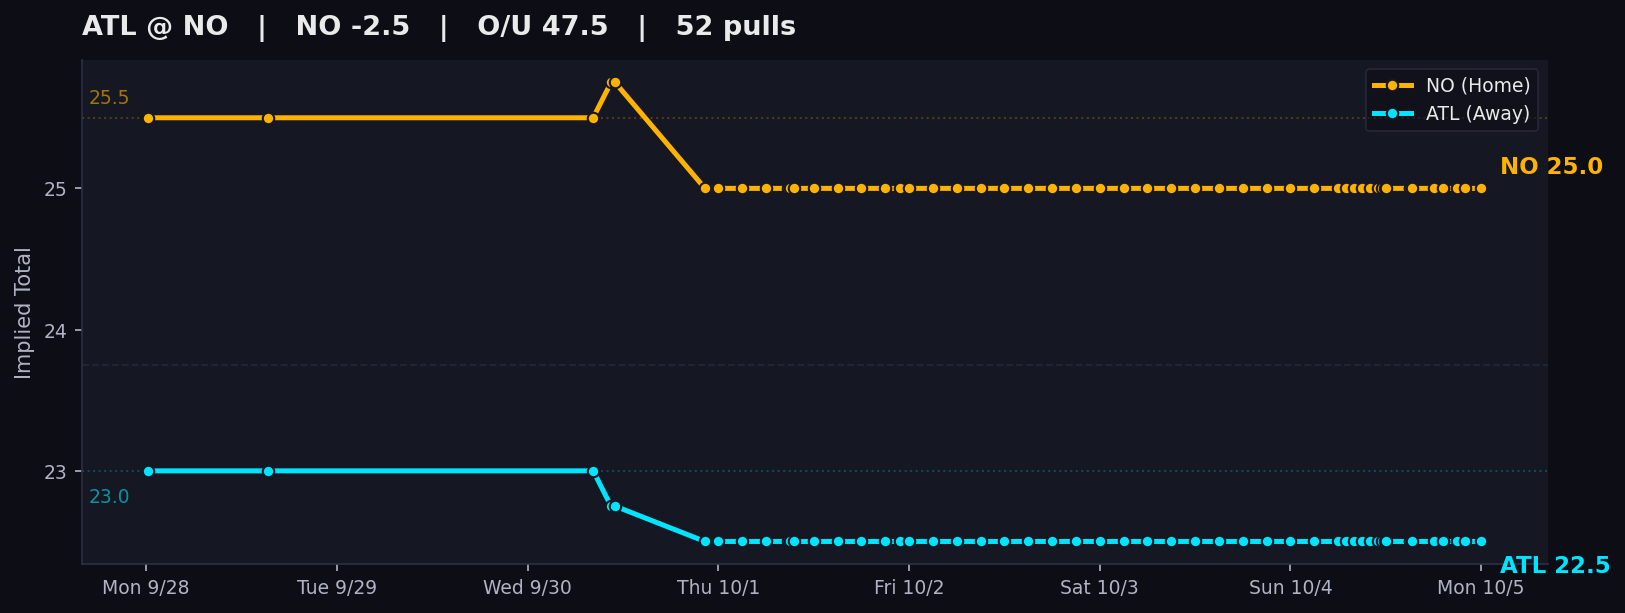
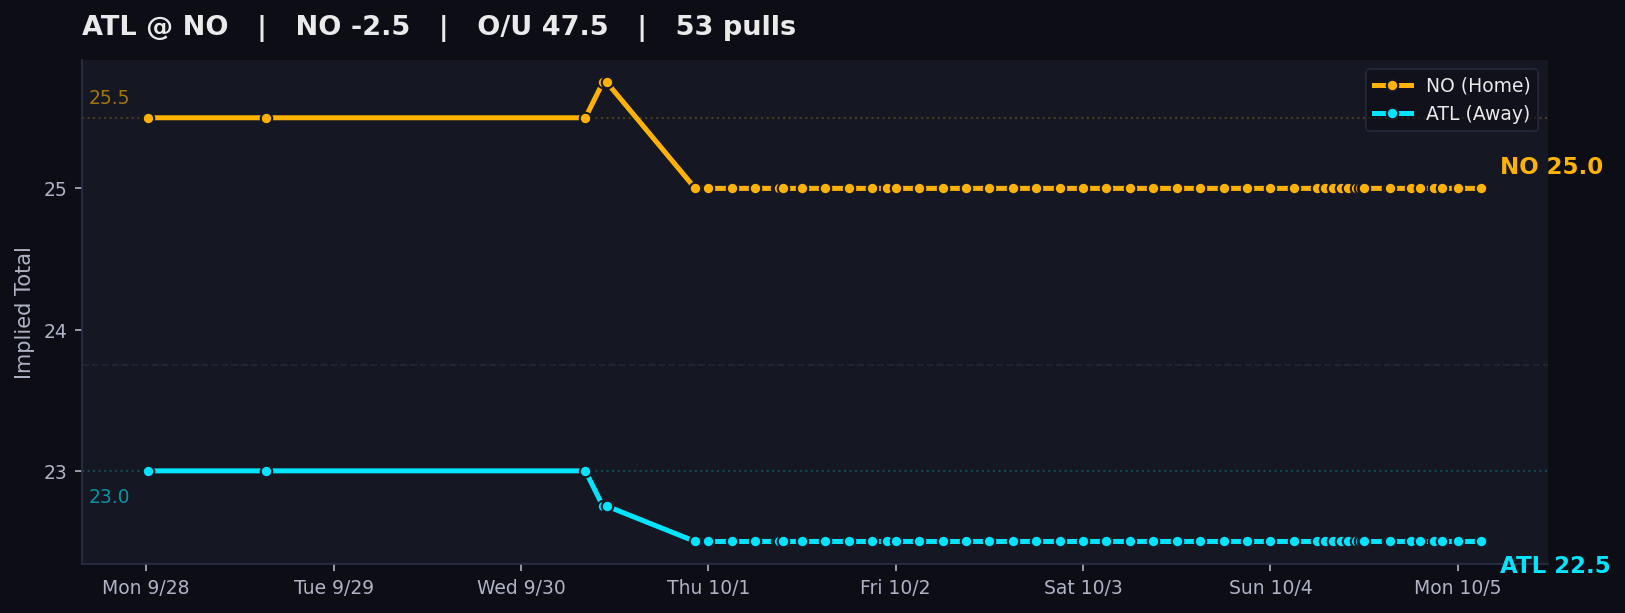
auto: local tracker sync

diff --git a/charts/index.html b/charts/index.html
@@ -311,7 +311,7 @@
     </div>
     <p class='sub'>
       DraftKings main lines &middot; Pinnacle cross-check &middot; Updated by the local Mac tracker<br>
-      Page rendered Mon Oct 05, 2026 12:00 AM CDT &middot; 757 valid chart dots &middot; 908 total pull attempts
+      Page rendered Mon Oct 05, 2026 3:00 AM CDT &middot; 758 valid chart dots &middot; 909 total pull attempts
       <span class='legend-box'>
         <span class='dot-teal'>● Away implied total</span>
         <span class='dot-amber'>● Home implied total</span>
@@ -324,9 +324,9 @@
     </details>
   </header>
 
-  <div id='feed-banner' class='alert-banner healthy' data-banner-kind='healthy' data-feed-ts='2026-10-05T05:00:01.269095+00:00' data-feed-ts-label='Mon Oct 05, 12:00 AM CDT'>
+  <div id='feed-banner' class='alert-banner healthy' data-banner-kind='healthy' data-feed-ts='2026-10-05T08:00:01.490533+00:00' data-feed-ts-label='Mon Oct 05, 3:00 AM CDT'>
             <span class='status-dot'></span>
-            <b>Feed Healthy:</b> All 1 open markets updated. 15 games have started and is showing its final verified pregame line. Board age based on oldest open market: <span id='feed-time'>Mon Oct 05, 12:00 AM CDT</span> (<span id='feed-age-dynamic'>just now</span>).
+            <b>Feed Healthy:</b> All 1 open markets updated. 15 games have started and is showing its final verified pregame line. Board age based on oldest open market: <span id='feed-time'>Mon Oct 05, 3:00 AM CDT</span> (<span id='feed-age-dynamic'>just now</span>).
         </div>
 
   <nav class='filter-bar' aria-label='Filter games by slate'>
@@ -396,7 +396,7 @@
                 <div><span>Last valid pull</span><strong>Thu 6:00 PM CT</strong></div>
                 <div><span>Chart dots</span><strong>20</strong></div>
             </div>
-                    <img class='expanded-chart' src='PIT_CLE.png?v=1791176420' alt='PIT at CLE line movement chart'>
+                    <img class='expanded-chart' src='PIT_CLE.png?v=1791187221' alt='PIT at CLE line movement chart'>
                     <p class='movement-note'>Total 38.5 → 37.5</p>
                 </div>
             </td>
@@ -437,7 +437,7 @@
                 <div><span>Last valid pull</span><strong>Sun 8:00 AM CT</strong></div>
                 <div><span>Chart dots</span><strong>46</strong></div>
             </div>
-                    <img class='expanded-chart' src='IND_WAS.png?v=1791176420' alt='IND at WAS line movement chart'>
+                    <img class='expanded-chart' src='IND_WAS.png?v=1791187221' alt='IND at WAS line movement chart'>
                     <p class='movement-note'>Spread IND -3.5 → -4.5</p>
                 </div>
             </td>
@@ -478,7 +478,7 @@
                 <div><span>Last valid pull</span><strong>Sun 12:00 PM CT</strong></div>
                 <div><span>Chart dots</span><strong>50</strong></div>
             </div>
-                    <img class='expanded-chart' src='ARI_NYG.png?v=1791176420' alt='ARI at NYG line movement chart'>
+                    <img class='expanded-chart' src='ARI_NYG.png?v=1791187221' alt='ARI at NYG line movement chart'>
                     <p class='movement-note'>Spread ARI +1.5 → -2.5; Total 43.5 → 44.5</p>
                 </div>
             </td>
@@ -513,7 +513,7 @@
                 <div><span>Last valid pull</span><strong>Sun 12:00 PM CT</strong></div>
                 <div><span>Chart dots</span><strong>48</strong></div>
             </div>
-                    <img class='expanded-chart' src='LAR_PHI.png?v=1791176420' alt='LAR at PHI line movement chart'>
+                    <img class='expanded-chart' src='LAR_PHI.png?v=1791187221' alt='LAR at PHI line movement chart'>
                     <p class='movement-note'>Spread LAR -2.5 → -3.5; Total 46.5 → 42.5</p>
                 </div>
             </td>
@@ -548,7 +548,7 @@
                 <div><span>Last valid pull</span><strong>Sun 12:00 PM CT</strong></div>
                 <div><span>Chart dots</span><strong>50</strong></div>
             </div>
-                    <img class='expanded-chart' src='GB_TB.png?v=1791176420' alt='GB at TB line movement chart'>
+                    <img class='expanded-chart' src='GB_TB.png?v=1791187221' alt='GB at TB line movement chart'>
                     <p class='movement-note'>Total 42.5 → 38.5</p>
                 </div>
             </td>
@@ -583,7 +583,7 @@
                 <div><span>Last valid pull</span><strong>Sun 12:00 PM CT</strong></div>
                 <div><span>Chart dots</span><strong>48</strong></div>
             </div>
-                    <img class='expanded-chart' src='TEN_BAL.png?v=1791176420' alt='TEN at BAL line movement chart'>
+                    <img class='expanded-chart' src='TEN_BAL.png?v=1791187221' alt='TEN at BAL line movement chart'>
                     <p class='movement-note'>Total 43.5 → 42.5</p>
                 </div>
             </td>
@@ -618,7 +618,7 @@
                 <div><span>Last valid pull</span><strong>Sun 12:00 PM CT</strong></div>
                 <div><span>Chart dots</span><strong>51</strong></div>
             </div>
-                    <img class='expanded-chart' src='NE_BUF.png?v=1791176420' alt='NE at BUF line movement chart'>
+                    <img class='expanded-chart' src='NE_BUF.png?v=1791187221' alt='NE at BUF line movement chart'>
                     <p class='movement-note'>Total 48.5 → 49.5</p>
                 </div>
             </td>
@@ -653,7 +653,7 @@
                 <div><span>Last valid pull</span><strong>Sun 12:00 PM CT</strong></div>
                 <div><span>Chart dots</span><strong>50</strong></div>
             </div>
-                    <img class='expanded-chart' src='JAX_CIN.png?v=1791176420' alt='JAX at CIN line movement chart'>
+                    <img class='expanded-chart' src='JAX_CIN.png?v=1791187221' alt='JAX at CIN line movement chart'>
                     <p class='movement-note'>Total 50.5 → 51.5</p>
                 </div>
             </td>
@@ -688,7 +688,7 @@
                 <div><span>Last valid pull</span><strong>Sun 12:00 PM CT</strong></div>
                 <div><span>Chart dots</span><strong>50</strong></div>
             </div>
-                    <img class='expanded-chart' src='DAL_HOU.png?v=1791176420' alt='DAL at HOU line movement chart'>
+                    <img class='expanded-chart' src='DAL_HOU.png?v=1791187221' alt='DAL at HOU line movement chart'>
                     <p class='movement-note'>Spread HOU -2.5 → -3.0; Total 47.5 → 48.5</p>
                 </div>
             </td>
@@ -723,7 +723,7 @@
                 <div><span>Last valid pull</span><strong>Sun 12:00 PM CT</strong></div>
                 <div><span>Chart dots</span><strong>50</strong></div>
             </div>
-                    <img class='expanded-chart' src='NYJ_CHI.png?v=1791176420' alt='NYJ at CHI line movement chart'>
+                    <img class='expanded-chart' src='NYJ_CHI.png?v=1791187221' alt='NYJ at CHI line movement chart'>
                     <p class='movement-note'>Spread CHI -3.0 → -3.5; Total 42.5 → 43.5</p>
                 </div>
             </td>
@@ -764,7 +764,7 @@
                 <div><span>Last valid pull</span><strong>Sun 3:00 PM CT</strong></div>
                 <div><span>Chart dots</span><strong>49</strong></div>
             </div>
-                    <img class='expanded-chart' src='MIA_MIN.png?v=1791176420' alt='MIA at MIN line movement chart'>
+                    <img class='expanded-chart' src='MIA_MIN.png?v=1791187221' alt='MIA at MIN line movement chart'>
                     <p class='movement-note'>Total 39.5 → 38.5</p>
                 </div>
             </td>
@@ -799,7 +799,7 @@
                 <div><span>Last valid pull</span><strong>Sun 3:20 PM CT</strong></div>
                 <div><span>Chart dots</span><strong>50</strong></div>
             </div>
-                    <img class='expanded-chart' src='DEN_SF.png?v=1791176420' alt='DEN at SF line movement chart'>
+                    <img class='expanded-chart' src='DEN_SF.png?v=1791187221' alt='DEN at SF line movement chart'>
                     <p class='movement-note'>Total 46.5 → 47.5</p>
                 </div>
             </td>
@@ -834,7 +834,7 @@
                 <div><span>Last valid pull</span><strong>Sun 3:20 PM CT</strong></div>
                 <div><span>Chart dots</span><strong>47</strong></div>
             </div>
-                    <img class='expanded-chart' src='KC_LVR.png?v=1791176420' alt='KC at LVR line movement chart'>
+                    <img class='expanded-chart' src='KC_LVR.png?v=1791187221' alt='KC at LVR line movement chart'>
                     <p class='movement-note'>Spread KC -5.5 → -4.5</p>
                 </div>
             </td>
@@ -869,7 +869,7 @@
                 <div><span>Last valid pull</span><strong>Sun 3:20 PM CT</strong></div>
                 <div><span>Chart dots</span><strong>47</strong></div>
             </div>
-                    <img class='expanded-chart' src='LAC_SEA.png?v=1791176420' alt='LAC at SEA line movement chart'>
+                    <img class='expanded-chart' src='LAC_SEA.png?v=1791187221' alt='LAC at SEA line movement chart'>
                     <p class='movement-note'>Spread SEA -6.5 → -7.0; Total 43.5 → 42.5</p>
                 </div>
             </td>
@@ -910,7 +910,7 @@
                 <div><span>Last valid pull</span><strong>Sun 7:10 PM CT</strong></div>
                 <div><span>Chart dots</span><strong>49</strong></div>
             </div>
-                    <img class='expanded-chart' src='DET_CAR.png?v=1791176420' alt='DET at CAR line movement chart'>
+                    <img class='expanded-chart' src='DET_CAR.png?v=1791187221' alt='DET at CAR line movement chart'>
                     <p class='movement-note'>Spread DET -3.5 → -4.5; Total 50.5 → 51.5</p>
                 </div>
             </td>
@@ -931,8 +931,8 @@
             <td class='it-away'>ATL 22.5</td>
             <td class='it-home'>NO 25.0</td>
             <td class='reason' title='Total 48.5 → 47.5'>Total 48.5 → 47.5</td>
-            <td style='text-align:center;'><span class='pill-fresh'>12:00 AM CT</span></td>
-            <td class='snaps'>52</td>
+            <td style='text-align:center;'><span class='pill-fresh'>3:00 AM CT</span></td>
+            <td class='snaps'>53</td>
         </tr>
         <tr id='desktop-panel-ATL_NO' class='chart-detail-row' data-slate='MNF' data-game-panel='ATL_NO' hidden>
             <td colspan='12'>
@@ -948,10 +948,10 @@
                 <div><span>Current total</span><strong>47.5</strong></div>
                 <div><span>Away implied</span><strong class='it-away'>ATL 22.5</strong></div>
                 <div><span>Home implied</span><strong class='it-home'>NO 25.0</strong></div>
-                <div><span>Last valid pull</span><strong>12:00 AM CT</strong></div>
-                <div><span>Chart dots</span><strong>52</strong></div>
+                <div><span>Last valid pull</span><strong>3:00 AM CT</strong></div>
+                <div><span>Chart dots</span><strong>53</strong></div>
             </div>
-                    <img class='expanded-chart' src='ATL_NO.png?v=1791176420' alt='ATL at NO line movement chart'>
+                    <img class='expanded-chart' src='ATL_NO.png?v=1791187221' alt='ATL at NO line movement chart'>
                     <p class='movement-note'>Total 48.5 → 47.5</p>
                 </div>
             </td>
@@ -986,7 +986,7 @@
                 <div><span>Last valid pull</span><strong>Thu 6:00 PM CT</strong></div>
                 <div><span>Chart dots</span><strong>20</strong></div>
             </div>
-                <img class='expanded-chart' src='PIT_CLE.png?v=1791176420' alt='PIT at CLE line movement chart'>
+                <img class='expanded-chart' src='PIT_CLE.png?v=1791187221' alt='PIT at CLE line movement chart'>
                 <p class='pull-note'><span class='pull-dot'></span> Every dot is a valid completed pull · 20 chart dots</p>
             </div>
         </article><article class='mobile-game-card closed-game' data-slate='OTHER_PRIMETIME' data-game='IND_WAS'>
@@ -1013,7 +1013,7 @@
                 <div><span>Last valid pull</span><strong>Sun 8:00 AM CT</strong></div>
                 <div><span>Chart dots</span><strong>46</strong></div>
             </div>
-                <img class='expanded-chart' src='IND_WAS.png?v=1791176420' alt='IND at WAS line movement chart'>
+                <img class='expanded-chart' src='IND_WAS.png?v=1791187221' alt='IND at WAS line movement chart'>
                 <p class='pull-note'><span class='pull-dot'></span> Every dot is a valid completed pull · 46 chart dots</p>
             </div>
         </article><article class='mobile-game-card closed-game' data-slate='SUN_EARLY' data-game='ARI_NYG'>
@@ -1040,7 +1040,7 @@
                 <div><span>Last valid pull</span><strong>Sun 12:00 PM CT</strong></div>
                 <div><span>Chart dots</span><strong>50</strong></div>
             </div>
-                <img class='expanded-chart' src='ARI_NYG.png?v=1791176420' alt='ARI at NYG line movement chart'>
+                <img class='expanded-chart' src='ARI_NYG.png?v=1791187221' alt='ARI at NYG line movement chart'>
                 <p class='pull-note'><span class='pull-dot'></span> Every dot is a valid completed pull · 50 chart dots</p>
             </div>
         </article><article class='mobile-game-card closed-game' data-slate='SUN_EARLY' data-game='LAR_PHI'>
@@ -1067,7 +1067,7 @@
                 <div><span>Last valid pull</span><strong>Sun 12:00 PM CT</strong></div>
                 <div><span>Chart dots</span><strong>48</strong></div>
             </div>
-                <img class='expanded-chart' src='LAR_PHI.png?v=1791176420' alt='LAR at PHI line movement chart'>
+                <img class='expanded-chart' src='LAR_PHI.png?v=1791187221' alt='LAR at PHI line movement chart'>
                 <p class='pull-note'><span class='pull-dot'></span> Every dot is a valid completed pull · 48 chart dots</p>
             </div>
         </article><article class='mobile-game-card closed-game' data-slate='SUN_EARLY' data-game='GB_TB'>
@@ -1094,7 +1094,7 @@
                 <div><span>Last valid pull</span><strong>Sun 12:00 PM CT</strong></div>
                 <div><span>Chart dots</span><strong>50</strong></div>
             </div>
-                <img class='expanded-chart' src='GB_TB.png?v=1791176420' alt='GB at TB line movement chart'>
+                <img class='expanded-chart' src='GB_TB.png?v=1791187221' alt='GB at TB line movement chart'>
                 <p class='pull-note'><span class='pull-dot'></span> Every dot is a valid completed pull · 50 chart dots</p>
             </div>
         </article><article class='mobile-game-card closed-game' data-slate='SUN_EARLY' data-game='TEN_BAL'>
@@ -1121,7 +1121,7 @@
                 <div><span>Last valid pull</span><strong>Sun 12:00 PM CT</strong></div>
                 <div><span>Chart dots</span><strong>48</strong></div>
             </div>
-                <img class='expanded-chart' src='TEN_BAL.png?v=1791176420' alt='TEN at BAL line movement chart'>
+                <img class='expanded-chart' src='TEN_BAL.png?v=1791187221' alt='TEN at BAL line movement chart'>
                 <p class='pull-note'><span class='pull-dot'></span> Every dot is a valid completed pull · 48 chart dots</p>
             </div>
         </article><article class='mobile-game-card closed-game' data-slate='SUN_EARLY' data-game='NE_BUF'>
@@ -1148,7 +1148,7 @@
                 <div><span>Last valid pull</span><strong>Sun 12:00 PM CT</strong></div>
                 <div><span>Chart dots</span><strong>51</strong></div>
             </div>
-                <img class='expanded-chart' src='NE_BUF.png?v=1791176420' alt='NE at BUF line movement chart'>
+                <img class='expanded-chart' src='NE_BUF.png?v=1791187221' alt='NE at BUF line movement chart'>
                 <p class='pull-note'><span class='pull-dot'></span> Every dot is a valid completed pull · 51 chart dots</p>
             </div>
         </article><article class='mobile-game-card closed-game' data-slate='SUN_EARLY' data-game='JAX_CIN'>
@@ -1175,7 +1175,7 @@
                 <div><span>Last valid pull</span><strong>Sun 12:00 PM CT</strong></div>
                 <div><span>Chart dots</span><strong>50</strong></div>
             </div>
-                <img class='expanded-chart' src='JAX_CIN.png?v=1791176420' alt='JAX at CIN line movement chart'>
+                <img class='expanded-chart' src='JAX_CIN.png?v=1791187221' alt='JAX at CIN line movement chart'>
                 <p class='pull-note'><span class='pull-dot'></span> Every dot is a valid completed pull · 50 chart dots</p>
             </div>
         </article><article class='mobile-game-card closed-game' data-slate='SUN_EARLY' data-game='DAL_HOU'>
@@ -1202,7 +1202,7 @@
                 <div><span>Last valid pull</span><strong>Sun 12:00 PM CT</strong></div>
                 <div><span>Chart dots</span><strong>50</strong></div>
             </div>
-                <img class='expanded-chart' src='DAL_HOU.png?v=1791176420' alt='DAL at HOU line movement chart'>
+                <img class='expanded-chart' src='DAL_HOU.png?v=1791187221' alt='DAL at HOU line movement chart'>
                 <p class='pull-note'><span class='pull-dot'></span> Every dot is a valid completed pull · 50 chart dots</p>
             </div>
         </article><article class='mobile-game-card closed-game' data-slate='SUN_EARLY' data-game='NYJ_CHI'>
@@ -1229,7 +1229,7 @@
                 <div><span>Last valid pull</span><strong>Sun 12:00 PM CT</strong></div>
                 <div><span>Chart dots</span><strong>50</strong></div>
             </div>
-                <img class='expanded-chart' src='NYJ_CHI.png?v=1791176420' alt='NYJ at CHI line movement chart'>
+                <img class='expanded-chart' src='NYJ_CHI.png?v=1791187221' alt='NYJ at CHI line movement chart'>
                 <p class='pull-note'><span class='pull-dot'></span> Every dot is a valid completed pull · 50 chart dots</p>
             </div>
         </article><article class='mobile-game-card closed-game' data-slate='SUN_LATE' data-game='MIA_MIN'>
@@ -1256,7 +1256,7 @@
                 <div><span>Last valid pull</span><strong>Sun 3:00 PM CT</strong></div>
                 <div><span>Chart dots</span><strong>49</strong></div>
             </div>
-                <img class='expanded-chart' src='MIA_MIN.png?v=1791176420' alt='MIA at MIN line movement chart'>
+                <img class='expanded-chart' src='MIA_MIN.png?v=1791187221' alt='MIA at MIN line movement chart'>
                 <p class='pull-note'><span class='pull-dot'></span> Every dot is a valid completed pull · 49 chart dots</p>
             </div>
         </article><article class='mobile-game-card closed-game' data-slate='SUN_LATE' data-game='DEN_SF'>
@@ -1283,7 +1283,7 @@
                 <div><span>Last valid pull</span><strong>Sun 3:20 PM CT</strong></div>
                 <div><span>Chart dots</span><strong>50</strong></div>
             </div>
-                <img class='expanded-chart' src='DEN_SF.png?v=1791176420' alt='DEN at SF line movement chart'>
+                <img class='expanded-chart' src='DEN_SF.png?v=1791187221' alt='DEN at SF line movement chart'>
                 <p class='pull-note'><span class='pull-dot'></span> Every dot is a valid completed pull · 50 chart dots</p>
             </div>
         </article><article class='mobile-game-card closed-game' data-slate='SUN_LATE' data-game='KC_LVR'>
@@ -1310,7 +1310,7 @@
                 <div><span>Last valid pull</span><strong>Sun 3:20 PM CT</strong></div>
                 <div><span>Chart dots</span><strong>47</strong></div>
             </div>
-                <img class='expanded-chart' src='KC_LVR.png?v=1791176420' alt='KC at LVR line movement chart'>
+                <img class='expanded-chart' src='KC_LVR.png?v=1791187221' alt='KC at LVR line movement chart'>
                 <p class='pull-note'><span class='pull-dot'></span> Every dot is a valid completed pull · 47 chart dots</p>
             </div>
         </article><article class='mobile-game-card closed-game' data-slate='SUN_LATE' data-game='LAC_SEA'>
@@ -1337,7 +1337,7 @@
                 <div><span>Last valid pull</span><strong>Sun 3:20 PM CT</strong></div>
                 <div><span>Chart dots</span><strong>47</strong></div>
             </div>
-                <img class='expanded-chart' src='LAC_SEA.png?v=1791176420' alt='LAC at SEA line movement chart'>
+                <img class='expanded-chart' src='LAC_SEA.png?v=1791187221' alt='LAC at SEA line movement chart'>
                 <p class='pull-note'><span class='pull-dot'></span> Every dot is a valid completed pull · 47 chart dots</p>
             </div>
         </article><article class='mobile-game-card closed-game' data-slate='SNF' data-game='DET_CAR'>
@@ -1364,7 +1364,7 @@
                 <div><span>Last valid pull</span><strong>Sun 7:10 PM CT</strong></div>
                 <div><span>Chart dots</span><strong>49</strong></div>
             </div>
-                <img class='expanded-chart' src='DET_CAR.png?v=1791176420' alt='DET at CAR line movement chart'>
+                <img class='expanded-chart' src='DET_CAR.png?v=1791187221' alt='DET at CAR line movement chart'>
                 <p class='pull-note'><span class='pull-dot'></span> Every dot is a valid completed pull · 49 chart dots</p>
             </div>
         </article><article class='mobile-game-card ' data-slate='MNF' data-game='ATL_NO'>
@@ -1388,11 +1388,11 @@
                 <div><span>Current total</span><strong>47.5</strong></div>
                 <div><span>Away implied</span><strong class='it-away'>ATL 22.5</strong></div>
                 <div><span>Home implied</span><strong class='it-home'>NO 25.0</strong></div>
-                <div><span>Last valid pull</span><strong>12:00 AM CT</strong></div>
-                <div><span>Chart dots</span><strong>52</strong></div>
+                <div><span>Last valid pull</span><strong>3:00 AM CT</strong></div>
+                <div><span>Chart dots</span><strong>53</strong></div>
             </div>
-                <img class='expanded-chart' src='ATL_NO.png?v=1791176420' alt='ATL at NO line movement chart'>
-                <p class='pull-note'><span class='pull-dot'></span> Every dot is a valid completed pull · 52 chart dots</p>
+                <img class='expanded-chart' src='ATL_NO.png?v=1791187221' alt='ATL at NO line movement chart'>
+                <p class='pull-note'><span class='pull-dot'></span> Every dot is a valid completed pull · 53 chart dots</p>
             </div>
         </article>
   </section>
